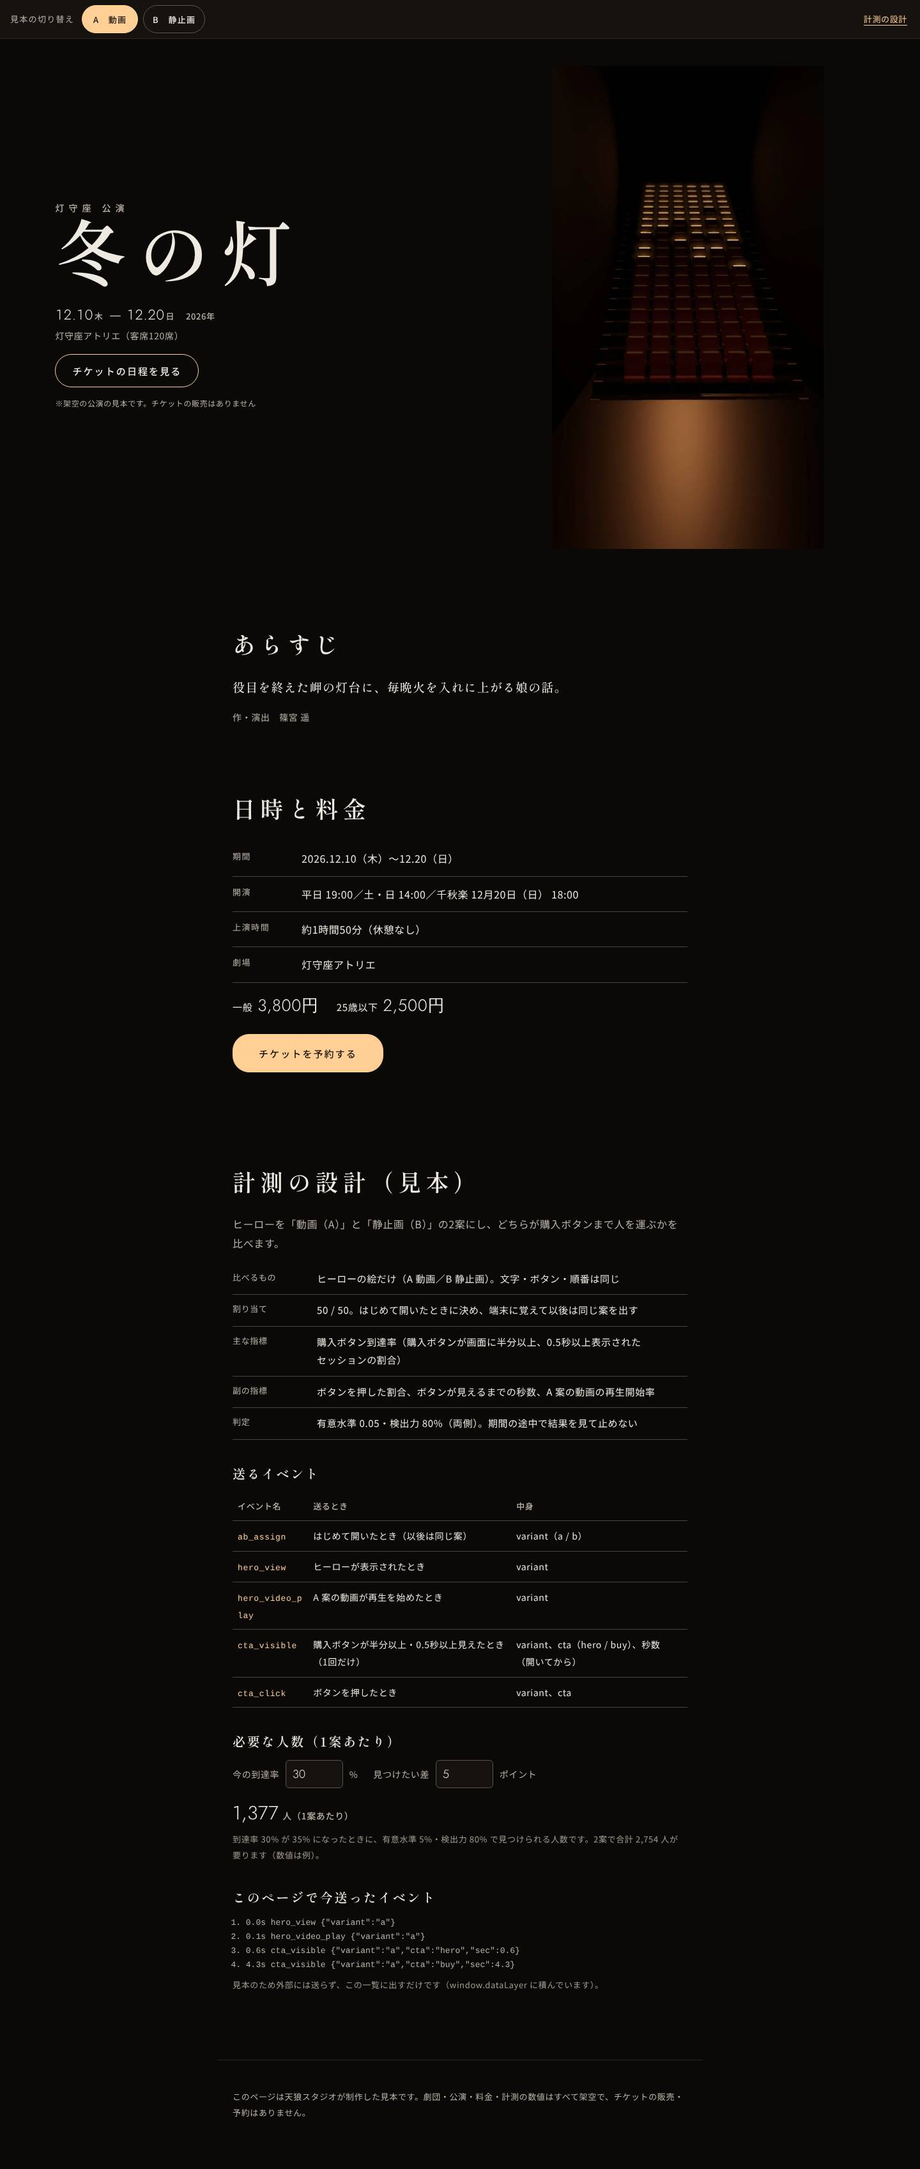
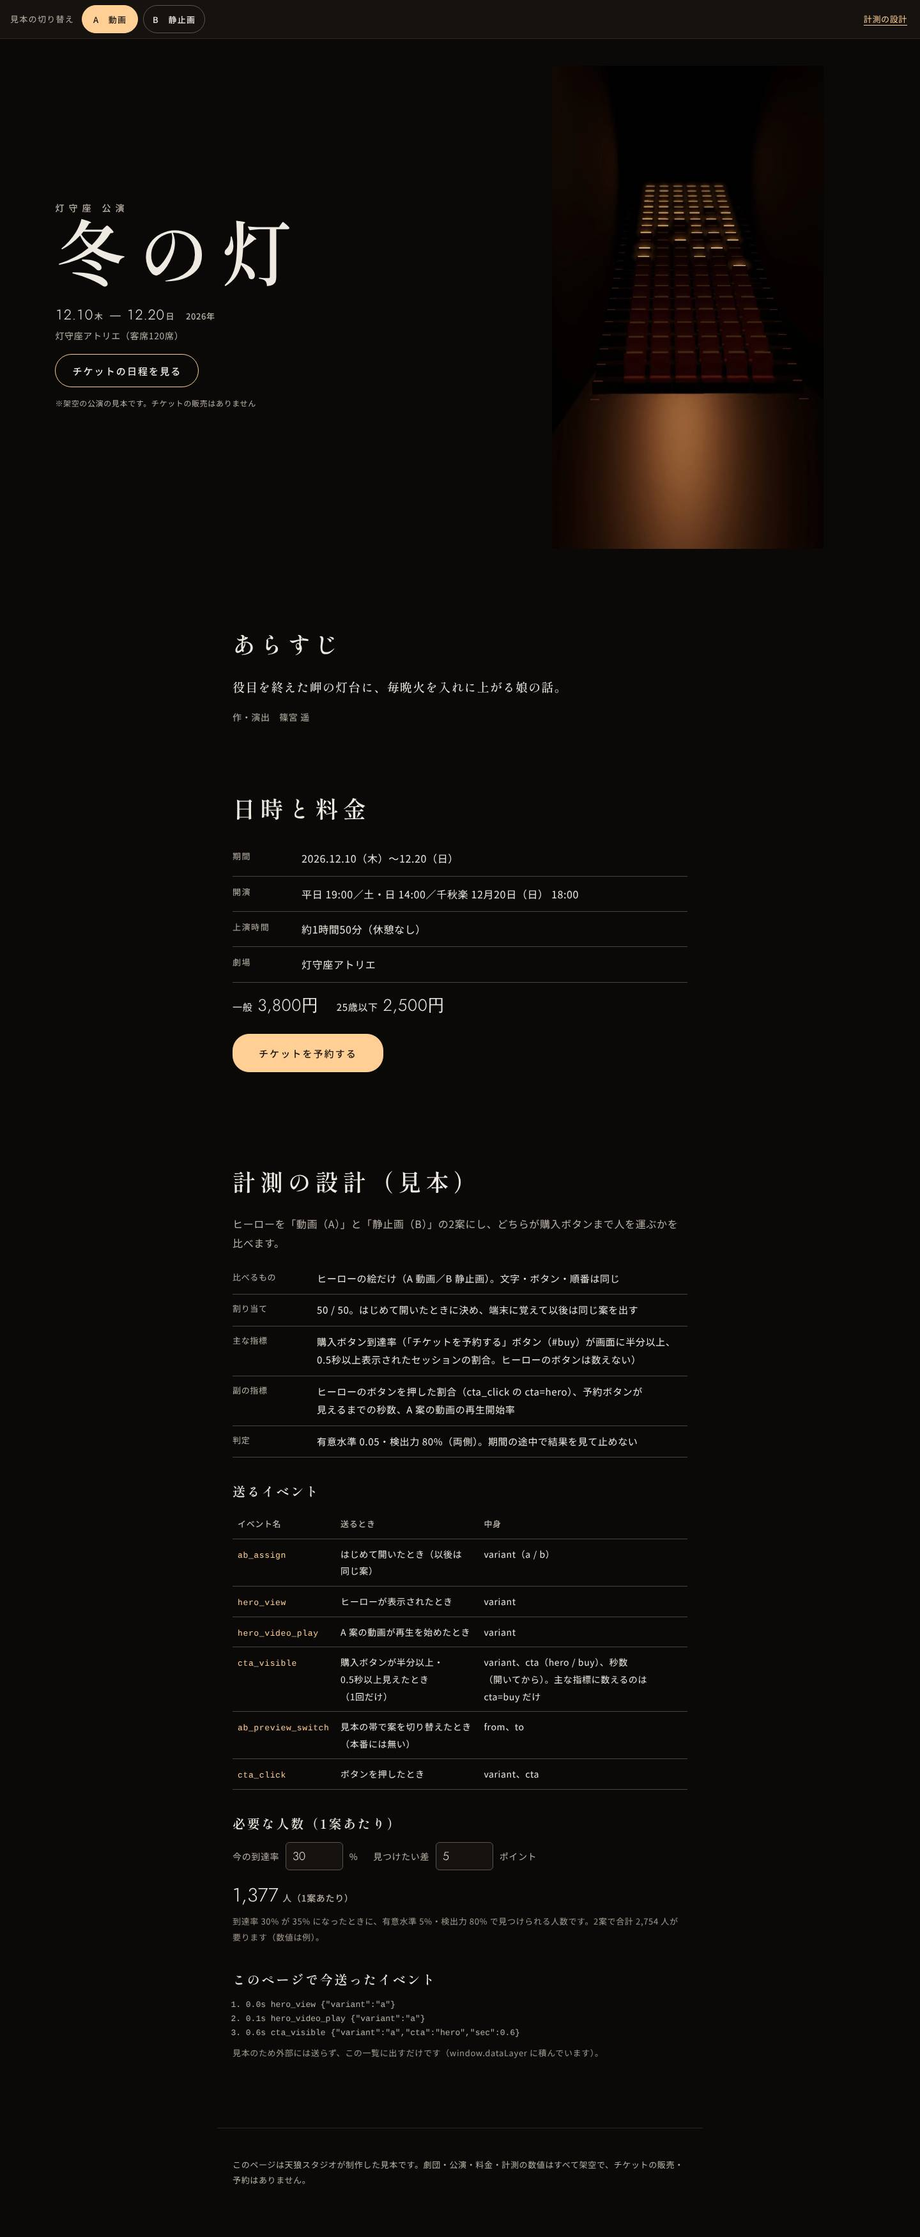
S02-08：チケット LP の A/B 見本を完成品（5.50）として保存。審査後に計測の不具合（二重送信・主な指標の定義・切り替え時の数え直し・入力の検証）を直して公開を更新し、知見を追記
Claude-Session: https://claude.ai/code/session_01BwmUGTgfPEj1Tu5124aDtq

diff --git a/studio/projects/S02-08-ab-lp/site/index.html b/studio/projects/S02-08-ab-lp/site/index.html
@@ -6,7 +6,7 @@
 <title>冬の灯 チケット A/B 見本</title>
 <meta name="description" content="架空の劇団・灯守座『冬の灯』のチケット LP。ヒーローが動画の A 案と静止画の B 案を切り替えられ、購入ボタン到達率で比べる計測の設計まで載せた見本（天狼スタジオ制作）。">
 <link rel="preconnect" href="https://fonts.googleapis.com">
-<link id="fm" rel="stylesheet" href="https://fonts.googleapis.com/css2?family=Shippori+Mincho:wght@500;600&display=swap&text=0123456789%E3%80%80%E3%80%81%E3%80%82%E3%80%8C%E3%80%8D%E3%80%8E%E3%80%8F%E3%80%9C%E3%81%82%E3%81%84%E3%81%88%E3%81%8B%E3%81%8C%E3%81%8D%E3%81%8F%E3%81%91%E3%81%93%E3%81%94%E3%81%95%E3%81%97%E3%81%98%E3%81%99%E3%81%9A%E3%81%9B%E3%81%9D%E3%81%9F%E3%81%A0%E3%81%A1%E3%81%A3%E3%81%A4%E3%81%A6%E3%81%A7%E3%81%A8%E3%81%A9%E3%81%AA%E3%81%AB%E3%81%AE%E3%81%AF%E3%81%B6%E3%81%B9%E3%81%BE%E3%81%BF%E3%82%81%E3%82%82%E3%82%89%E3%82%8A%E3%82%8B%E3%82%8C%E3%82%92%E3%82%93%E3%82%A2%E3%82%A4%E3%82%A8%E3%82%AA%E3%82%B1%E3%82%B5%E3%82%B7%E3%82%B8%E3%82%B9%E3%82%BB%E3%82%BF%E3%83%81%E3%83%83%E3%83%88%E3%83%91%E3%83%92%E3%83%95%E3%83%99%E3%83%9A%E3%83%9C%E3%83%9D%E3%83%A7%E3%83%AA%E3%83%AC%E3%83%AD%E3%83%B3%E3%83%BB%E3%83%BC%E4%B8%80%E4%B8%8A%E4%B8%8B%E4%B8%A1%E4%B8%AD%E4%B8%BB%E4%BA%88%E4%BA%BA%E4%BB%8A%E4%BB%A5%E4%BC%91%E4%BD%9C%E4%BE%8B%E5%80%A4%E5%81%B4%E5%85%A5%E5%85%AC%E5%86%86%E5%86%8D%E5%86%AC%E5%87%BA%E5%88%86%E5%88%87%E5%88%A4%E5%88%B0%E5%88%B6%E5%89%AF%E5%89%B2%E5%8A%87%E5%8A%9B%E5%8B%95%E5%8D%83%E5%8D%8A%E5%8F%B0%E5%90%88%E5%90%8C%E5%90%8D%E5%9B%9E%E5%9B%A3%E5%9C%9F%E5%A0%B4%E5%A3%B2%E5%A4%96%E5%A4%A9%E5%A7%8B%E5%A8%98%E5%AD%97%E5%AE%88%E5%AE%9A%E5%AE%A2%E5%AE%AE%E5%B2%AC%E5%B7%AE%E5%B8%AD%E5%B9%B3%E5%B9%B4%E5%BA%A7%E5%BD%93%E5%BD%B9%E5%BE%8C%E5%BF%85%E6%84%8F%E6%86%A9%E6%8A%BC%E6%8A%BD%E6%8C%87%E6%8F%8F%E6%95%B0%E6%96%87%E6%96%99%E6%97%A5%E6%99%82%E6%99%A9%E6%9B%BF%E6%9C%80%E6%9C%88%E6%9C%89%E6%9C%9F%E6%9C%A8%E6%9C%AB%E6%9C%AC%E6%9E%9C%E6%9E%B6%E6%A1%88%E6%A4%9C%E6%A5%BD%E6%A8%99%E6%AD%A2%E6%AD%B3%E6%AE%8B%E6%AF%8E%E6%AF%94%E6%B0%B4%E6%B1%BA%E6%B6%88%E6%B8%AC%E6%BA%96%E6%BC%94%E7%81%AB%E7%81%AF%E7%89%A9%E7%8B%BC%E7%8E%87%E7%94%9F%E7%94%BB%E7%95%AA%E7%9B%AE%E7%9B%B4%E7%A4%BA%E7%A7%8B%E7%A7%92%E7%A8%8B%E7%A9%8D%E7%A9%BA%E7%AB%AF%E7%AF%A0%E7%B4%84%E7%B5%82%E7%B5%90%E7%B5%B5%E8%88%AC%E8%A1%A8%E8%A6%81%E8%A6%8B%E8%A6%9A%E8%A6%A7%E8%A8%88%E8%A8%98%E8%A8%AD%E8%A9%B1%E8%B2%A9%E8%B3%BC%E8%BA%AB%E8%BC%89%E9%80%81%E9%80%94%E9%81%8B%E9%81%94%E9%81%A5%E9%81%B8%E9%83%A8%E9%87%91%E9%8C%B2%E9%96%8B%E9%96%93%E9%9D%99%E9%9D%A2%E9%9F%B3%E9%A0%86%EF%BC%88%EF%BC%89%EF%BC%8F%EF%BC%9A%EF%BC%9D%EF%BC%9E">
+<link id="fm" rel="stylesheet" href="https://fonts.googleapis.com/css2?family=Shippori+Mincho:wght@500;600&display=swap&text=0123456789%E3%80%80%E3%80%81%E3%80%82%E3%80%8C%E3%80%8D%E3%80%8E%E3%80%8F%E3%80%9C%E3%81%82%E3%81%84%E3%81%86%E3%81%88%E3%81%8B%E3%81%8C%E3%81%8D%E3%81%8E%E3%81%8F%E3%81%91%E3%81%93%E3%81%94%E3%81%95%E3%81%97%E3%81%98%E3%81%99%E3%81%9A%E3%81%9B%E3%81%9D%E3%81%9F%E3%81%A0%E3%81%A1%E3%81%A3%E3%81%A4%E3%81%A6%E3%81%A7%E3%81%A8%E3%81%A9%E3%81%AA%E3%81%AB%E3%81%AE%E3%81%AF%E3%81%B6%E3%81%B9%E3%81%BE%E3%81%BF%E3%82%81%E3%82%82%E3%82%88%E3%82%89%E3%82%8A%E3%82%8B%E3%82%8C%E3%82%92%E3%82%93%E3%82%A2%E3%82%A4%E3%82%A8%E3%82%AA%E3%82%B1%E3%82%B5%E3%82%B7%E3%82%B8%E3%82%B9%E3%82%BB%E3%82%BF%E3%83%81%E3%83%83%E3%83%88%E3%83%91%E3%83%92%E3%83%95%E3%83%99%E3%83%9A%E3%83%9C%E3%83%9D%E3%83%A7%E3%83%AA%E3%83%AC%E3%83%AD%E3%83%B3%E3%83%BB%E3%83%BC%E4%B8%80%E4%B8%8A%E4%B8%8B%E4%B8%A1%E4%B8%AD%E4%B8%BB%E4%BA%88%E4%BA%BA%E4%BB%8A%E4%BB%A5%E4%BC%91%E4%BD%9C%E4%BE%8B%E5%80%A4%E5%81%B4%E5%85%88%E5%85%A5%E5%85%AC%E5%86%86%E5%86%8D%E5%86%AC%E5%87%BA%E5%88%86%E5%88%87%E5%88%A4%E5%88%B0%E5%88%B6%E5%89%AF%E5%89%B2%E5%8A%87%E5%8A%9B%E5%8B%95%E5%8D%83%E5%8D%8A%E5%8F%B0%E5%90%88%E5%90%8C%E5%90%8D%E5%9B%9E%E5%9B%A3%E5%9C%9F%E5%9F%8B%E5%A0%B4%E5%A3%B2%E5%A4%96%E5%A4%A9%E5%A7%8B%E5%A8%98%E5%AD%97%E5%AE%88%E5%AE%9A%E5%AE%A2%E5%AE%AE%E5%B2%AC%E5%B7%AE%E5%B8%AD%E5%B8%AF%E5%B9%B3%E5%B9%B4%E5%BA%A7%E5%BD%93%E5%BD%B9%E5%BE%8C%E5%BF%85%E6%84%8F%E6%85%8B%E6%86%A9%E6%8A%BC%E6%8A%BD%E6%8C%87%E6%8F%8F%E6%8F%9B%E6%95%B0%E6%96%87%E6%96%99%E6%97%A5%E6%99%82%E6%99%A9%E6%9B%B8%E6%9B%BF%E6%9C%80%E6%9C%88%E6%9C%89%E6%9C%9F%E6%9C%A8%E6%9C%AA%E6%9C%AB%E6%9C%AC%E6%9E%9C%E6%9E%B6%E6%A1%88%E6%A4%9C%E6%A5%BD%E6%A8%99%E6%AD%A2%E6%AD%B3%E6%AE%8B%E6%AF%8E%E6%AF%94%E6%B0%B4%E6%B1%BA%E6%B6%88%E6%B8%9B%E6%B8%AC%E6%BA%80%E6%BA%96%E6%BC%94%E7%81%AB%E7%81%AF%E7%84%A1%E7%89%A9%E7%8A%B6%E7%8B%BC%E7%8E%87%E7%94%9F%E7%94%BB%E7%95%AA%E7%9B%AE%E7%9B%B4%E7%A4%BA%E7%A7%8B%E7%A7%92%E7%A8%8B%E7%A9%8D%E7%A9%BA%E7%AB%AF%E7%AF%A0%E7%B4%84%E7%B5%82%E7%B5%90%E7%B5%B5%E8%87%AA%E8%88%AC%E8%A1%A8%E8%A6%81%E8%A6%8B%E8%A6%9A%E8%A6%A7%E8%A8%88%E8%A8%98%E8%A8%AD%E8%A9%B1%E8%B2%A9%E8%B3%BC%E8%BA%AB%E8%BC%89%E8%BE%BC%E9%80%81%E9%80%94%E9%80%9A%E9%81%8B%E9%81%8E%E9%81%94%E9%81%A5%E9%81%B8%E9%83%A8%E9%87%91%E9%8C%B2%E9%96%8B%E9%96%93%E9%9D%99%E9%9D%A2%E9%9F%B3%E9%A0%86%EF%BC%88%EF%BC%89%EF%BC%8F%EF%BC%9A%EF%BC%9D%EF%BC%9E">
 <link rel="stylesheet" href="https://fonts.googleapis.com/css2?family=Noto+Sans+JP:wght@400;500&family=Jost:wght@300;400&display=swap">
 <link rel="stylesheet" href="style.css">
 </head>
@@ -49,7 +49,8 @@
       <tr><td><code>ab_assign</code></td><td>はじめて開いたとき（以後は同じ案）</td><td>variant（a / b）</td></tr>
       <tr><td><code>hero_view</code></td><td>ヒーローが表示されたとき</td><td>variant</td></tr>
       <tr><td><code>hero_video_play</code></td><td>A 案の動画が再生を始めたとき</td><td>variant</td></tr>
-      <tr><td><code>cta_visible</code></td><td>購入ボタンが半分以上・0.5秒以上見えたとき（1回だけ）</td><td>variant、cta（hero / buy）、秒数（開いてから）</td></tr>
+      <tr><td><code>cta_visible</code></td><td>購入ボタンが半分以上・0.5秒以上見えたとき（1回だけ）</td><td>variant、cta（hero / buy）、秒数（開いてから）。主な指標に数えるのは cta=buy だけ</td></tr>
+      <tr><td><code>ab_preview_switch</code></td><td>見本の帯で案を切り替えたとき（本番には無い）</td><td>from、to</td></tr>
       <tr><td><code>cta_click</code></td><td>ボタンを押したとき</td><td>variant、cta</td></tr>
     </tbody>
   </table>

diff --git a/studio/projects/S02-08-ab-lp/site/app.js b/studio/projects/S02-08-ab-lp/site/app.js
@@ -18,7 +18,7 @@ const A = F.ab;
 row($('spec'), '比べるもの', 'ヒーローの絵だけ（A 動画／B 静止画）。文字・ボタン・順番は同じ');
 row($('spec'), '割り当て', `${A.split}。はじめて開いたときに決め、端末に覚えて以後は同じ案を出す`);
 row($('spec'), '主な指標', `${A.metric}（${A.metric_def}）`);
-row($('spec'), '副の指標', 'ボタンを押した割合、ボタンが見えるまでの秒数、A 案の動画の再生開始率');
+row($('spec'), '副の指標', 'ヒーローのボタンを押した割合（cta_click の cta=hero）、予約ボタンが見えるまでの秒数、A 案の動画の再生開始率');
 row($('spec'), '判定', `有意水準 ${A.alpha}・検出力 ${A.power * 100}%（両側）。期間の途中で結果を見て止めない`);
 
 // イベント
@@ -42,7 +42,7 @@ function hero() {
   const m = $('media'); m.textContent = '';
   if (variant === 'a') {
     const v = document.createElement('video');
-    v.src = 'hero.mp4'; v.poster = 'hero_first.jpg'; v.muted = true; v.playsInline = true; v.preload = 'auto'; v.autoplay = !reduce;
+    v.src = 'hero.mp4'; v.poster = 'hero_first.jpg'; v.muted = true; v.playsInline = true; v.preload = 'auto'; v.autoplay = !reduce; v.controls = reduce;   // 動きを減らす設定のときは自動で再生せず、自分で再生できるようにする
     v.setAttribute('aria-label', '客席の灯りが、売れた席から順に消えていき、残りの席だけが灯る動画（音なし）');
     v.addEventListener('play', () => send('hero_video_play'), { once: true });
     m.append(v); if (!reduce) v.play().catch(() => {});
@@ -53,30 +53,36 @@ function hero() {
   send('hero_view');
 }
 document.querySelectorAll('.abbar button').forEach(b => b.addEventListener('click', () => {
-  if (b.dataset.v === variant) return; variant = b.dataset.v; store.set('ab_variant', variant);
+  if (b.dataset.v === variant) return; const from = variant; variant = b.dataset.v; store.set('ab_variant', variant);
+  send('ab_preview_switch', { from, to: variant });
   try { const u = new URL(location.href); u.searchParams.set('v', variant); history.replaceState(null, '', u); } catch {}   // 埋め込み先によっては URL を書き換えられない
-  seen.clear(); hero();
+  io.disconnect(); for (const id of timers.values()) clearTimeout(id); timers.clear(); seen.clear(); hero(); watch();   // 見本の切り替えは、はじめて開いたときと同じ状態から数え直す
 }));
 if (fresh) send('ab_assign');
 hero();
 
-// ボタンが半分以上・0.5 秒以上見えたら cta_visible（ボタンごとに1回）
+// ボタンが半分以上・0.5 秒以上見えたら cta_visible（ボタンごとに1回。0.5 秒未満で通り過ぎたら数えない）
 const seen = new Set(), timers = new Map();
 const io = new IntersectionObserver(es => es.forEach(e => {
   const k = e.target.dataset.cta;
-  if (e.intersectionRatio >= .5 && !seen.has(k)) timers.set(k, setTimeout(() => { seen.add(k); send('cta_visible', { cta: k, sec: +((performance.now() - t0) / 1000).toFixed(1) }); }, 500));
-  else clearTimeout(timers.get(k));
-}), { threshold: [0, .5, 1] });
-document.querySelectorAll('[data-cta]').forEach(b => { io.observe(b); b.addEventListener('click', () => send('cta_click', { cta: b.dataset.cta })); });
+  if (e.intersectionRatio >= .5) { if (!seen.has(k) && !timers.has(k)) timers.set(k, setTimeout(() => { timers.delete(k); seen.add(k); send('cta_visible', { cta: k, sec: +((performance.now() - t0) / 1000).toFixed(1) }); }, 500)); }
+  else { clearTimeout(timers.get(k)); timers.delete(k); }
+}), { threshold: [.5] });
+const watch = () => document.querySelectorAll('[data-cta]').forEach(b => io.observe(b));
+watch(); document.querySelectorAll('[data-cta]').forEach(b => b.addEventListener('click', () => send('cta_click', { cta: b.dataset.cta })));
 $('buy').addEventListener('click', () => { $('msg').textContent = '見本のため、予約はできません。押されたことだけを記録しました。'; });
 
 // 必要な人数（2つの割合の差の検定、両側）
 const Z = { a: 1.959964, b: .841621 };
 function calc() {
-  const p1 = Math.min(.95, Math.max(.01, (+$('p0').value || A.baseline_example) / 100)), p2 = Math.min(.99, p1 + Math.max(.01, (+$('mde').value || A.mde_example) / 100)), pb = (p1 + p2) / 2;
+  const a = +$('p0').value, d = +$('mde').value, ok = $('p0').value !== '' && $('mde').value !== '' && a >= 1 && a <= 95 && d >= 1 && a + d <= 99;
+  $('p0').setAttribute('aria-invalid', String(!ok)); $('mde').setAttribute('aria-invalid', String(!ok)); $('nres').textContent = '';
+  if (!ok) { $('nnote').textContent = '今の到達率は 1〜95%、差は 1 ポイント以上で、合計は 99% 以下で入れてください。'; $('nnote').classList.add('warn'); return; }
+  $('nnote').classList.remove('warn');
+  const p1 = a / 100, p2 = (a + d) / 100, pb = (p1 + p2) / 2;
   const n = Math.ceil((Z.a * Math.sqrt(2 * pb * (1 - pb)) + Z.b * Math.sqrt(p1 * (1 - p1) + p2 * (1 - p2))) ** 2 / (p2 - p1) ** 2);
-  $('nres').textContent = ''; $('nres').append(n.toLocaleString('ja-JP'), el('small', null, '人（1案あたり）'));
-  $('nnote').textContent = `到達率 ${Math.round(p1 * 100)}% が ${Math.round(p2 * 100)}% になったときに、有意水準 5%・検出力 80% で見つけられる人数です。2案で合計 ${(n * 2).toLocaleString('ja-JP')} 人が要ります（数値は例）。`;
+  $('nres').append(n.toLocaleString('ja-JP'), el('small', null, '人（1案あたり）'));
+  $('nnote').textContent = `到達率 ${a}% が ${a + d}% になったときに、有意水準 5%・検出力 80% で見つけられる人数です。2案で合計 ${(n * 2).toLocaleString('ja-JP')} 人が要ります（数値は例）。`;
 }
 $('p0').value = A.baseline_example; $('mde').value = A.mde_example;
 $('p0').addEventListener('input', calc); $('mde').addEventListener('input', calc); calc();

diff --git a/studio/projects/S02-08-ab-lp/site/data.js b/studio/projects/S02-08-ab-lp/site/data.js
@@ -1,2 +1,2 @@
 // facts.json から生成（手で書き換えない）
-export const F = {"_note": "劇団・人物・劇場・公演・料金・計測の数値の例はすべて架空。S02-06 パンフレット・S09-07 残席ショート・S02-03 劇団サイトと同じ『冬の灯』。動画は S09-07 の客席を文字なしで描き直したもの", "troupe": "灯守座", "title": "冬の灯", "writer_director": "篠宮 遥", "venue": "灯守座アトリエ", "seats": 120, "period": {"from": "2026-12-10", "from_wd": "木", "to": "2026-12-20", "to_wd": "日"}, "times": [["平日", "19:00"], ["土・日", "14:00"], ["千秋楽 12月20日（日）", "18:00"]], "running": "約1時間50分（休憩なし）", "prices": [["一般", "3,800円"], ["25歳以下", "2,500円"]], "logline": "役目を終えた岬の灯台に、毎晩火を入れに上がる娘の話。", "ab": {"metric": "購入ボタン到達率", "metric_def": "購入ボタンが画面に半分以上、0.5秒以上表示されたセッションの割合", "split": "50 / 50", "baseline_example": 30, "mde_example": 5, "alpha": 0.05, "power": 0.8}, "disclosure": "このページは天狼スタジオが制作した見本です。劇団・公演・料金・計測の数値はすべて架空で、チケットの販売・予約はありません。"};
+export const F = {"_note": "劇団・人物・劇場・公演・料金・計測の数値の例はすべて架空。S02-06 パンフレット・S09-07 残席ショート・S02-03 劇団サイトと同じ『冬の灯』。動画は S09-07 の客席を文字なしで描き直したもの", "troupe": "灯守座", "title": "冬の灯", "writer_director": "篠宮 遥", "venue": "灯守座アトリエ", "seats": 120, "period": {"from": "2026-12-10", "from_wd": "木", "to": "2026-12-20", "to_wd": "日"}, "times": [["平日", "19:00"], ["土・日", "14:00"], ["千秋楽 12月20日（日）", "18:00"]], "running": "約1時間50分（休憩なし）", "prices": [["一般", "3,800円"], ["25歳以下", "2,500円"]], "logline": "役目を終えた岬の灯台に、毎晩火を入れに上がる娘の話。", "ab": {"metric": "購入ボタン到達率", "metric_def": "「チケットを予約する」ボタン（#buy）が画面に半分以上、0.5秒以上表示されたセッションの割合。ヒーローのボタンは数えない", "split": "50 / 50", "baseline_example": 30, "mde_example": 5, "alpha": 0.05, "power": 0.8}, "disclosure": "このページは天狼スタジオが制作した見本です。劇団・公演・料金・計測の数値はすべて架空で、チケットの販売・予約はありません。"};

diff --git a/studio/projects/S02-08-ab-lp/site/style.css b/studio/projects/S02-08-ab-lp/site/style.css
@@ -71,3 +71,8 @@ time, .nw { white-space: nowrap; }
 }
 @media (prefers-reduced-motion: reduce) { html { scroll-behavior: auto; } }
 @media (max-width: 480px) { .ablabel { display: none; } .abbar { flex-wrap: nowrap; padding: 6px 12px; } .abbar button { min-width: 0; padding: 0 12px; } .ablink { font-size: 12px; } }
+code { white-space: nowrap; overflow-wrap: normal; word-break: keep-all; }
+th:first-child, td:first-child { width: 11.5em; }
+table { min-width: 600px; }
+.note.warn { color: var(--amber); }
+.sec h2 { font-feature-settings: "palt" 1; }

diff --git a/studio/works/pass/S02-08-ab-lp/README.md b/studio/works/pass/S02-08-ab-lp/README.md
@@ -1,0 +1,18 @@
+# S02-08 チケット LP の A/B 2案と計測設計『冬の灯』（架空）— 完成品（5.50）
+
+- 等級: 完成品（審査1回目 5.50・判定 publish。critical なし、Web の数値ゲートも合格。必要人数の式は審査員が手計算で一致を確認）
+- 公開（Artifact）: https://claude.ai/artifact/D2vbv1xTBvxjjzvBG9mXq6
+- 本体: `studio/projects/S02-08-ab-lp/site/`（data.js と明朝のサブセットは build.py が facts.json から生成）
+- 内容: 架空の灯守座『冬の灯』のチケット LP。上の帯で見本の2案を切り替えられる
+  - A：客席の灯りが、売れた席から順に消えていく動画（S09-07 残席ショートの客席を文字なしで 720×1280・9秒に描き直し、`projects/S09-07-zanseki/zanseki_bg.html`）
+  - B：その最後のフレームの静止画（A は 9 秒で B と同じ絵に着地する）
+  - 計測の設計：比べるもの・割り当て（50/50、端末に覚える）・主な指標（予約ボタン #buy の到達率。ヒーローのボタンは数えない）・副の指標・判定の条件、送るイベントの表、必要人数の計算機（2つの割合の差の検定、両側 α=0.05・検出力 80%）、このページで今送ったイベントの一覧（window.dataLayer、外部には送らない）
+- 審査のあとに直したこと:
+  - cta_visible が 2 回送られていた（IntersectionObserver のしきい値 2 つでタイマーを上書き）→ しきい値を 0.5 だけにし、タイマーを1つに
+  - 主な指標をどのボタンで数えるか書いていなかった → 予約ボタン（#buy）だけと明記
+  - 見本の帯で切り替えたとき、数え直されなかった → 監視を張り直し、ab_preview_switch を別に送る
+  - イベント名が語の途中で折れていた、計算機が範囲外の入力を黙って丸めていた、reduced-motion で動画を再生できなかった → それぞれ直した
+- 次に直すなら（審査の指摘）:
+  - A の動画を「B と同じ絵から始まり、一度全席が灯り直して、売れた順に消えて B に戻る」構成にして、比べる差を「動き」だけにする（今は A の冒頭が『空いている』絵で、希少性の量が交絡している）
+  - 消灯の間隔を ease-in にして、最後の数灯に溜めを作る
+  - PC のファーストビューの釣り合い（絵の切り取りと文字の位置）

diff --git a/studio/knowledge/playbook.md b/studio/knowledge/playbook.md
@@ -547,3 +547,11 @@ SKILL の「テスト」が手順 1〜6、「制作」が手順 7〜10 にあた
 - 見えない（opacity 0）リンクは tabindex=-1・pointer-events:none・aria-hidden にして、見えてから外す
 - webcheck は canvas の線と文字の重なりを測らない。名前（h1）を線が横切ると design_typography が下がるので、スクショで確かめる
 - 「人型の動きが線を残す」なら、描いている間だけ人型（骨格）を見せると因果が伝わる（審査の指摘）
+
+### S02-08 チケット LP の A/B 2案と計測設計（2026-11-08、完成品 5.50）
+- 既存の映像のページ（S09-07）から文字のレイヤーだけを CSS で消したコピーを作り、render.mjs で小さく描き直すと、別の作品の素材（ヒーロー動画）になる。720×1280・9秒・1 ワーカーで約5分
+- **A/B は「比べたい差」以外を同じにする**。A の動画の冒頭が「空いている客席」、B が「残りわずか」の絵だと、動きの差ではなく希少性の量を比べてしまう（審査の指摘）。動画は B と同じ絵から始めて同じ絵で終える
+- 主な指標は「どのボタンで数えるか」まで書く。ファーストビューにあるボタンを数えると到達率はほぼ 100% になって差が出ない
+- IntersectionObserver で「0.5 秒以上見えたら1回」を数えるなら、しきい値は1つにし、タイマーが張られている間は張り直さない（しきい値を複数にすると、タイマーを上書きして二重に送る）
+- 計算機は範囲外の入力を黙って丸めない。止めて理由を出す
+- 表の中の code は white-space:nowrap（body の overflow-wrap:anywhere でイベント名が語の途中で折れる）

diff --git a/studio/knowledge/published-artifacts.md b/studio/knowledge/published-artifacts.md
@@ -36,3 +36,4 @@ Artifact の制約（変換の道具で吸収している）:
 - S05-02 シンガーソングライター公式サイト: https://claude.ai/artifact/6DcfRJH5JCZd2x7VsgrB5F
 - S02-03 劇団 灯守座 公式サイト: https://claude.ai/artifact/PtXv8o4iffAqvS7nWmPCsf
 - S05-03 ダンサー 九条 舞 公式サイト: https://claude.ai/artifact/7ztqo8DF4ZE2BNeXovCpVh
+- S02-08 チケット LP の A/B 見本: https://claude.ai/artifact/D2vbv1xTBvxjjzvBG9mXq6
